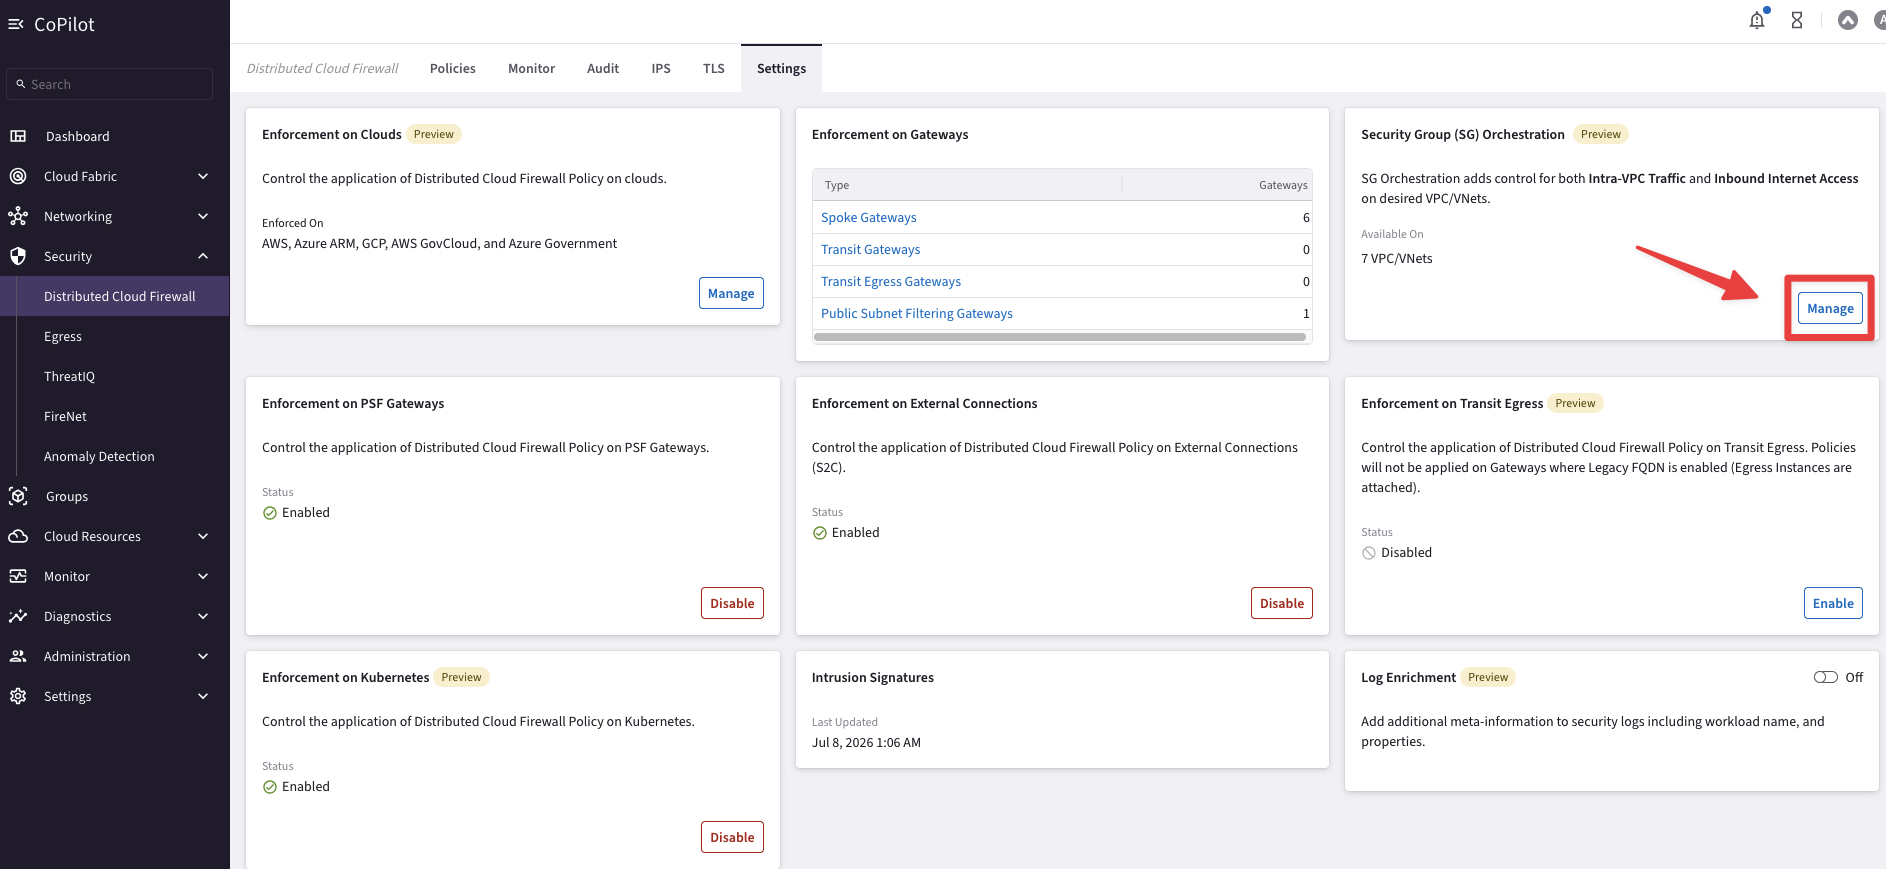
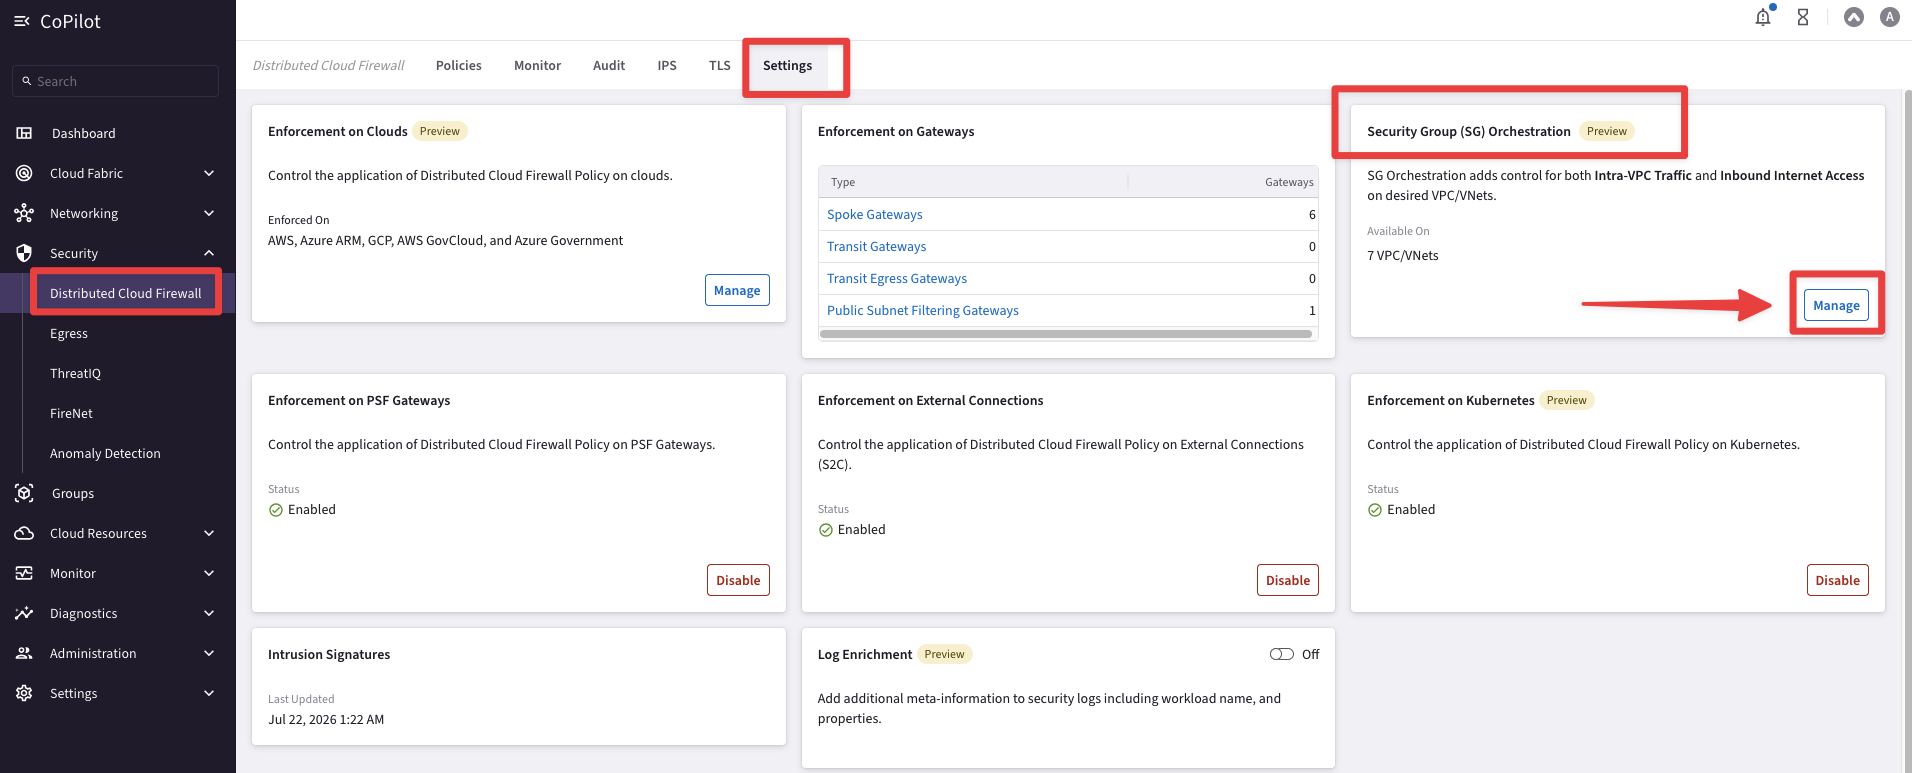
Merge pull request #1703 from AviatrixSystems/new_branch13113
update for pro

Pull request: update for pro

diff --git a/docs/ace-pro/docs/lab11.html b/docs/ace-pro/docs/lab11.html
@@ -400,7 +400,7 @@ document.write(`
 </ul>
 </li>
 <li class="toc-h2 nav-item toc-entry"><a class="reference internal nav-link" href="#verification-of-the-mtt">12. Verification of the MTT</a></li>
-<li class="toc-h2 nav-item toc-entry"><a class="reference internal nav-link" href="#the-last-dcf-rule">13. The last DCF rule</a><ul class="nav section-nav flex-column">
+<li class="toc-h2 nav-item toc-entry"><a class="reference internal nav-link" href="#the-dcf-rule-for-east-1">13. The DCF rule for East-1</a><ul class="nav section-nav flex-column">
 <li class="toc-h3 nav-item toc-entry"><a class="reference internal nav-link" href="#icmp-verification-traffic-between-azure-and-aws-using-gatus-app-after-enabling-mtt">13.1 ICMP Verification  traffic between Azure and AWS Using Gatus App after enabling MTT</a></li>
 <li class="toc-h3 nav-item toc-entry"><a class="reference internal nav-link" href="#icmp-verification-between-azure-and-aws-using-ssh-client-after-enabling-mtt-bonus">13.2 ICMP Verification between Azure and AWS Using SSH Client after enabling MTT<span style="color:#33ECFF">(BONUS)</span></a></li>
 </ul>
@@ -559,7 +559,7 @@ document.write(`
 </section>
 <section id="removal-of-the-connection-policy">
 <h3>3.3 Removal of the Connection Policy<a class="headerlink" href="#removal-of-the-connection-policy" title="Link to this heading">#</a></h3>
-<p>The <strong><em>gcp-us-central1-spoke1</em></strong> VPC must stay isolated, as its Spoke gateway acts as the <em>landing Spoke</em> for the <code class="docutils literal notranslate"><span class="pre">Site-to-Cloud</span></code> connection with the partner router.</p>
+<p>The <strong><em>gcp-us-central1-spoke1</em></strong> VPC must stay isolated, as its Spoke gateway acts as the <em>Landing Spoke</em> for the <code class="docutils literal notranslate"><span class="pre">Site-to-Cloud</span></code> connection with the partner router.</p>
 <figure class="align-center" id="id12">
 <a class="reference internal image-reference" href="../_images/lab10-landingnew.png"><img alt="../_images/lab10-landingnew.png" src="../_images/lab10-landingnew.png" style="height: 400px;" />
 </a>
@@ -1386,8 +1386,8 @@ document.write(`
 <p>Click on <code class="docutils literal notranslate"><span class="pre">&quot;+</span> <span class="pre">228</span> <span class="pre">more&quot;</span></code></p>
 </div>
 </section>
-<section id="the-last-dcf-rule">
-<h2>13. The last DCF rule<a class="headerlink" href="#the-last-dcf-rule" title="Link to this heading">#</a></h2>
+<section id="the-dcf-rule-for-east-1">
+<h2>13. The DCF rule for East-1<a class="headerlink" href="#the-dcf-rule-for-east-1" title="Link to this heading">#</a></h2>
 <section id="icmp-verification-traffic-between-azure-and-aws-using-gatus-app-after-enabling-mtt">
 <h3>13.1 ICMP Verification  traffic between Azure and AWS Using Gatus App after enabling MTT<a class="headerlink" href="#icmp-verification-traffic-between-azure-and-aws-using-gatus-app-after-enabling-mtt" title="Link to this heading">#</a></h3>
 <p>Open the Gatus App on <strong><em>azure-west-us-spoke2-test1</em></strong> and verify the ICMP Traffic.</p>
@@ -1544,8 +1544,7 @@ document.write(`
 </section>
 <section id="spoke-to-spoke-attachment">
 <h2>15. Spoke to Spoke Attachment<a class="headerlink" href="#spoke-to-spoke-attachment" title="Link to this heading">#</a></h2>
-<p>Since Distributed Cloud Firewall is enabled, the owner of <strong><em>azure-west-us-spoke2-test1</em></strong> wants to directly communicate with <strong><em>azure-west-us-spoke1-test1</em></strong>, bypassing the NGFW for traffic from the VNet.
-sent to the NGFW, first.</p>
+<p>Since Distributed Cloud Firewall is enabled, the owner of <strong><em>azure-west-us-spoke2-test1</em></strong> wants to communicate directly with <strong><em>azure-west-us-spoke1-test1</em></strong>. <ins>Because security enforcement now takes place on the Spokes</ins>, traffic can bypass the Transit gateway and no longer needs to go through the NGFW connected to it.</p>
 <figure class="align-center" id="id99">
 <img alt="../_images/lab10-spoke2spoke01.png" src="../_images/lab10-spoke2spoke01.png" />
 <figcaption>
@@ -1774,7 +1773,7 @@ sent to the NGFW, first.</p>
 </ul>
 </li>
 <li class="toc-h2 nav-item toc-entry"><a class="reference internal nav-link" href="#verification-of-the-mtt">12. Verification of the MTT</a></li>
-<li class="toc-h2 nav-item toc-entry"><a class="reference internal nav-link" href="#the-last-dcf-rule">13. The last DCF rule</a><ul class="nav section-nav flex-column">
+<li class="toc-h2 nav-item toc-entry"><a class="reference internal nav-link" href="#the-dcf-rule-for-east-1">13. The DCF rule for East-1</a><ul class="nav section-nav flex-column">
 <li class="toc-h3 nav-item toc-entry"><a class="reference internal nav-link" href="#icmp-verification-traffic-between-azure-and-aws-using-gatus-app-after-enabling-mtt">13.1 ICMP Verification  traffic between Azure and AWS Using Gatus App after enabling MTT</a></li>
 <li class="toc-h3 nav-item toc-entry"><a class="reference internal nav-link" href="#icmp-verification-between-azure-and-aws-using-ssh-client-after-enabling-mtt-bonus">13.2 ICMP Verification between Azure and AWS Using SSH Client after enabling MTT<span style="color:#33ECFF">(BONUS)</span></a></li>
 </ul>

diff --git a/ace_pro/docs/lab11.md b/ace_pro/docs/lab11.md
@@ -145,7 +145,7 @@ Complete DCF Rules List
 
 ### 3.3 Removal of the Connection Policy
 
-The **_gcp-us-central1-spoke1_** VPC must stay isolated, as its Spoke gateway acts as the _landing Spoke_ for the `Site-to-Cloud` connection with the partner router.
+The **_gcp-us-central1-spoke1_** VPC must stay isolated, as its Spoke gateway acts as the _Landing Spoke_ for the `Site-to-Cloud` connection with the partner router.
 
 ```{figure} images/lab10-landingnew.png
 ---
@@ -1088,7 +1088,7 @@ align: center
 Click on `"+ 228 more"`
 ```
 
-## 13. The last DCF rule
+## 13. The DCF rule for East-1
 
 ### 13.1 ICMP Verification  traffic between Azure and AWS Using Gatus App after enabling MTT
 
@@ -1262,8 +1262,7 @@ Final Topology
 
 ## 15. Spoke to Spoke Attachment
 
-Since Distributed Cloud Firewall is enabled, the owner of **_azure-west-us-spoke2-test1_** wants to directly communicate with **_azure-west-us-spoke1-test1_**, bypassing the NGFW for traffic from the VNet.
-sent to the NGFW, first.
+Since Distributed Cloud Firewall is enabled, the owner of **_azure-west-us-spoke2-test1_** wants to communicate directly with **_azure-west-us-spoke1-test1_**. <ins>Because security enforcement now takes place on the Spokes</ins>, traffic can bypass the Transit gateway and no longer needs to go through the NGFW connected to it.
 
 ```{figure} images/lab10-spoke2spoke01.png
 ---

diff --git a/docs/ace-pro/_sources/docs/lab11.md b/docs/ace-pro/_sources/docs/lab11.md
@@ -145,7 +145,7 @@ Complete DCF Rules List
 
 ### 3.3 Removal of the Connection Policy
 
-The **_gcp-us-central1-spoke1_** VPC must stay isolated, as its Spoke gateway acts as the _landing Spoke_ for the `Site-to-Cloud` connection with the partner router.
+The **_gcp-us-central1-spoke1_** VPC must stay isolated, as its Spoke gateway acts as the _Landing Spoke_ for the `Site-to-Cloud` connection with the partner router.
 
 ```{figure} images/lab10-landingnew.png
 ---
@@ -1088,7 +1088,7 @@ align: center
 Click on `"+ 228 more"`
 ```
 
-## 13. The last DCF rule
+## 13. The DCF rule for East-1
 
 ### 13.1 ICMP Verification  traffic between Azure and AWS Using Gatus App after enabling MTT
 
@@ -1262,8 +1262,7 @@ Final Topology
 
 ## 15. Spoke to Spoke Attachment
 
-Since Distributed Cloud Firewall is enabled, the owner of **_azure-west-us-spoke2-test1_** wants to directly communicate with **_azure-west-us-spoke1-test1_**, bypassing the NGFW for traffic from the VNet.
-sent to the NGFW, first.
+Since Distributed Cloud Firewall is enabled, the owner of **_azure-west-us-spoke2-test1_** wants to communicate directly with **_azure-west-us-spoke1-test1_**. <ins>Because security enforcement now takes place on the Spokes</ins>, traffic can bypass the Transit gateway and no longer needs to go through the NGFW connected to it.
 
 ```{figure} images/lab10-spoke2spoke01.png
 ---